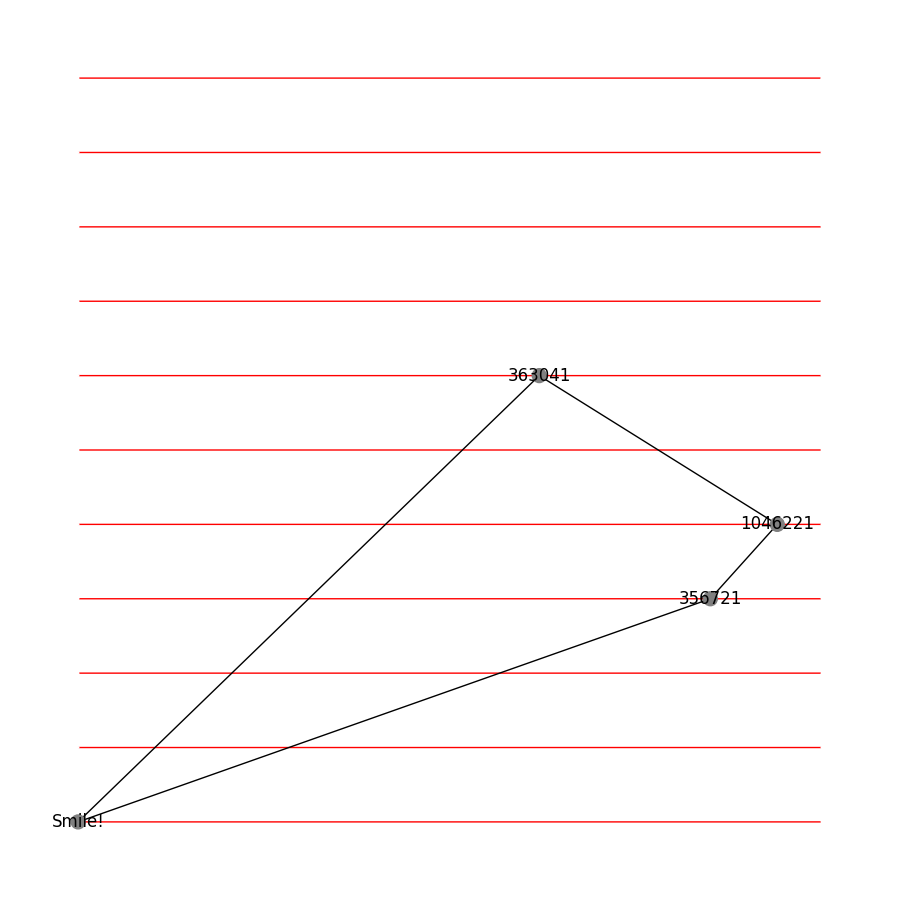
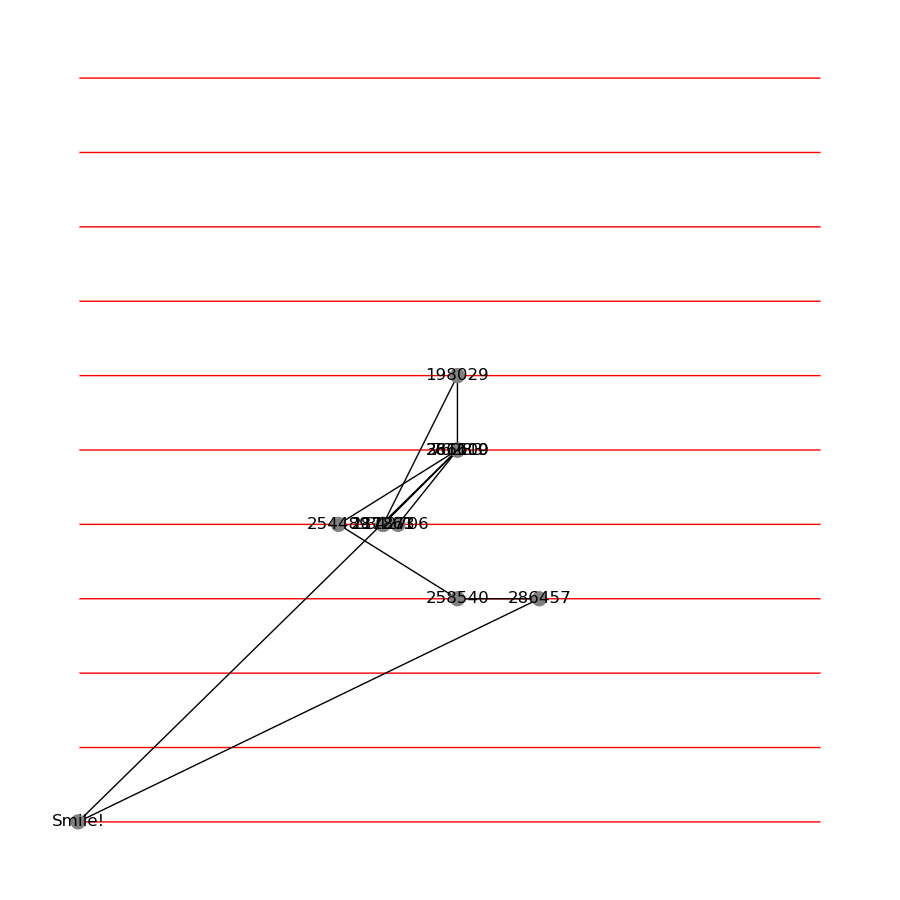
test

diff --git a/data/path/dot.html b/data/path/dot.html
@@ -7,11 +7,11 @@
 
 </head>
 <body>
-    <div id="643721338d59477db78b18a220f3d22f" class="chart-container" style="width:1600px; height:800px;"></div>
+    <div id="585ef90c727943dea1f59c34d8833c16" class="chart-container" style="width:1600px; height:800px;"></div>
     <script>
-        var chart_643721338d59477db78b18a220f3d22f = echarts.init(
-            document.getElementById('643721338d59477db78b18a220f3d22f'), 'white', {renderer: 'canvas'});
-        var option_643721338d59477db78b18a220f3d22f = {
+        var chart_585ef90c727943dea1f59c34d8833c16 = echarts.init(
+            document.getElementById('585ef90c727943dea1f59c34d8833c16'), 'white', {renderer: 'canvas'});
+        var option_585ef90c727943dea1f59c34d8833c16 = {
     "animation": true,
     "animationThreshold": 2000,
     "animationDuration": 1000,
@@ -77,23 +77,11 @@
             "focusNodeAdjacency": true,
             "data": [
                 {
-                    "x": 27.98,
-                    "y": 18.0,
-                    "id": 392519,
-                    "name": 392519,
-                    "symbolSize": 10,
-                    "itemStyle": {
-                        "normal": {
-                            "color": "grey"
-                        }
-                    },
-                    "categories": "products1"
-                },
-                {
-                    "x": 8.0,
-                    "y": 4.0,
-                    "id": 392080,
-                    "name": 392080,
+                    "x": 10.2,
+                    "y": 10.0,
+                    "id": 281610,
+                    "is_fixed": true,
+                    "name": "281610:(10.2,10.0",
                     "symbolSize": 10,
                     "itemStyle": {
                         "normal": {
@@ -104,9 +92,122 @@
                 },
                 {
                     "x": 8.6,
+                    "y": 8.0,
+                    "id": 342706,
+                    "is_fixed": true,
+                    "name": "342706:(8.6,8.0",
+                    "symbolSize": 10,
+                    "itemStyle": {
+                        "normal": {
+                            "color": "grey"
+                        }
+                    },
+                    "categories": "products1"
+                },
+                {
+                    "x": 8.2,
+                    "y": 8.0,
+                    "id": 111873,
+                    "is_fixed": true,
+                    "name": "111873:(8.2,8.0",
+                    "symbolSize": 10,
+                    "itemStyle": {
+                        "normal": {
+                            "color": "grey"
+                        }
+                    },
+                    "categories": "products1"
+                },
+                {
+                    "x": 10.2,
+                    "y": 12.0,
+                    "id": 198029,
+                    "is_fixed": true,
+                    "name": "198029:(10.2,12.0",
+                    "symbolSize": 10,
+                    "itemStyle": {
+                        "normal": {
+                            "color": "grey"
+                        }
+                    },
+                    "categories": "products1"
+                },
+                {
+                    "x": 10.2,
+                    "y": 10.0,
+                    "id": 366109,
+                    "is_fixed": true,
+                    "name": "366109:(10.2,10.0",
+                    "symbolSize": 10,
+                    "itemStyle": {
+                        "normal": {
+                            "color": "grey"
+                        }
+                    },
+                    "categories": "products1"
+                },
+                {
+                    "x": 8.2,
+                    "y": 8.0,
+                    "id": 287261,
+                    "is_fixed": true,
+                    "name": "287261:(8.2,8.0",
+                    "symbolSize": 10,
+                    "itemStyle": {
+                        "normal": {
+                            "color": "grey"
+                        }
+                    },
+                    "categories": "products1"
+                },
+                {
+                    "x": 10.2,
+                    "y": 10.0,
+                    "id": 76283,
+                    "is_fixed": true,
+                    "name": "76283:(10.2,10.0",
+                    "symbolSize": 10,
+                    "itemStyle": {
+                        "normal": {
+                            "color": "grey"
+                        }
+                    },
+                    "categories": "products1"
+                },
+                {
+                    "x": 7.0,
+                    "y": 8.0,
+                    "id": 254489,
+                    "is_fixed": true,
+                    "name": "254489:(7.0,8.0",
+                    "symbolSize": 10,
+                    "itemStyle": {
+                        "normal": {
+                            "color": "grey"
+                        }
+                    },
+                    "categories": "products1"
+                },
+                {
+                    "x": 10.2,
                     "y": 6.0,
-                    "id": 816422,
-                    "name": 816422,
+                    "id": 258540,
+                    "is_fixed": true,
+                    "name": "258540:(10.2,6.0",
+                    "symbolSize": 10,
+                    "itemStyle": {
+                        "normal": {
+                            "color": "grey"
+                        }
+                    },
+                    "categories": "products1"
+                },
+                {
+                    "x": 12.4,
+                    "y": 6.0,
+                    "id": 286457,
+                    "is_fixed": true,
+                    "name": "286457:(12.4,6.0",
                     "symbolSize": 10,
                     "itemStyle": {
                         "normal": {
@@ -168,7 +269,7 @@
         }
     ]
 };
-        chart_643721338d59477db78b18a220f3d22f.setOption(option_643721338d59477db78b18a220f3d22f);
+        chart_585ef90c727943dea1f59c34d8833c16.setOption(option_585ef90c727943dea1f59c34d8833c16);
     </script>
 </body>
 </html>

diff --git a/objs/WareHouse.py b/objs/WareHouse.py
@@ -85,7 +85,9 @@ class WareHouse:
         :return:
         '''
 
-        start_time = time.time()
+        #TEST ONLY
+        #start_time = time.time()
+
         products_index_of_one_order_in_data = self.products_index_of_one_order_in_data[index]
         logger.info("products_index_of_one_order_in_data: {}".format(products_index_of_one_order_in_data))
 
@@ -125,7 +127,8 @@ class WareHouse:
             ###                         ###
             ###############################
             route = direction(self.data, start_point, end_point, m)
-
+            # FOR TEST ONLY
+            """
             end_time = time.time()
             path_result_id = []
             for i, step in enumerate(m['path']):
@@ -135,7 +138,8 @@ class WareHouse:
                     pass
             print("Order[{}] total running time {}s result path is{}".format(order.to_string(),end_time-start_time,path_result_id))
 
-            #print("end time", end_time)
+            """
+
 
             ############################
             self.logger.info("brute force result(path): {}".format(m["path"]))
